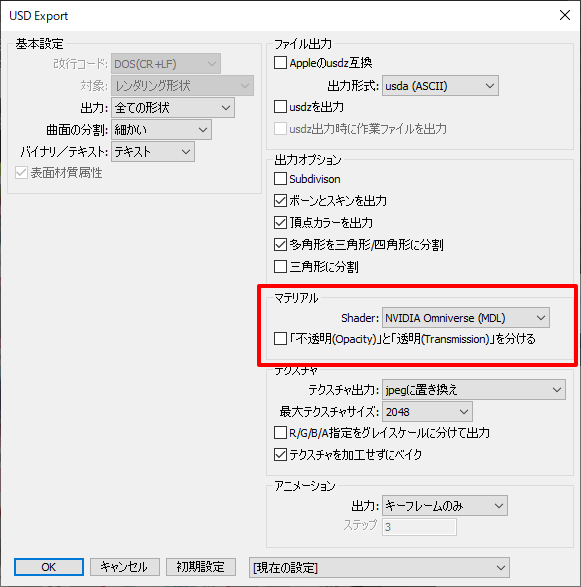
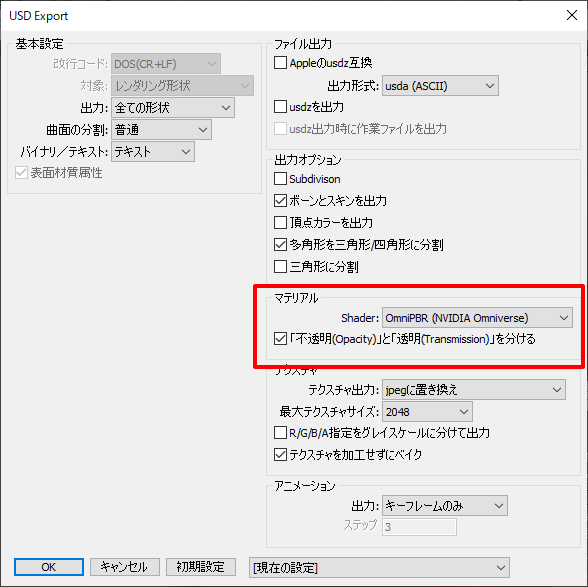
Update readme.

diff --git a/UpdateLog.md b/UpdateLog.md
@@ -1,5 +1,12 @@
 # 更新履歴
 
+[2021/07/30] ver.0.1.1.2   
+
+* Changed : エクスポート時のオプションShaderを"OmniPBR (NVIDIA Omniverse)"に名前変更
+* Changed : Shaderを"OmniPBR"で出力したとき、Roughness/Metallic/Occlusion/Opacity MapのColor Spaceを"raw"に変更
+* Fixed : Macからのエクスポート時、Shaderを"OmniPBR"で出力したときに正しくUSDファイルが出力できていなかった問題を修正
+* Fixed : "OmniPBR (NVIDIA Omniverse)"時に、テクスチャのマッピングの繰り返しが不正になることがあった問題を修正
+
 [2021/05/11] ver.0.1.1.1   
 * Fixed : ルートパート名が英字の場合に正しく出力できない問題を修正
 * Fixed : 同一マスターサーフェスを参照するフェイスグループを使った形状で、マスターサーフェスが複数作られてしまう問題を修正
